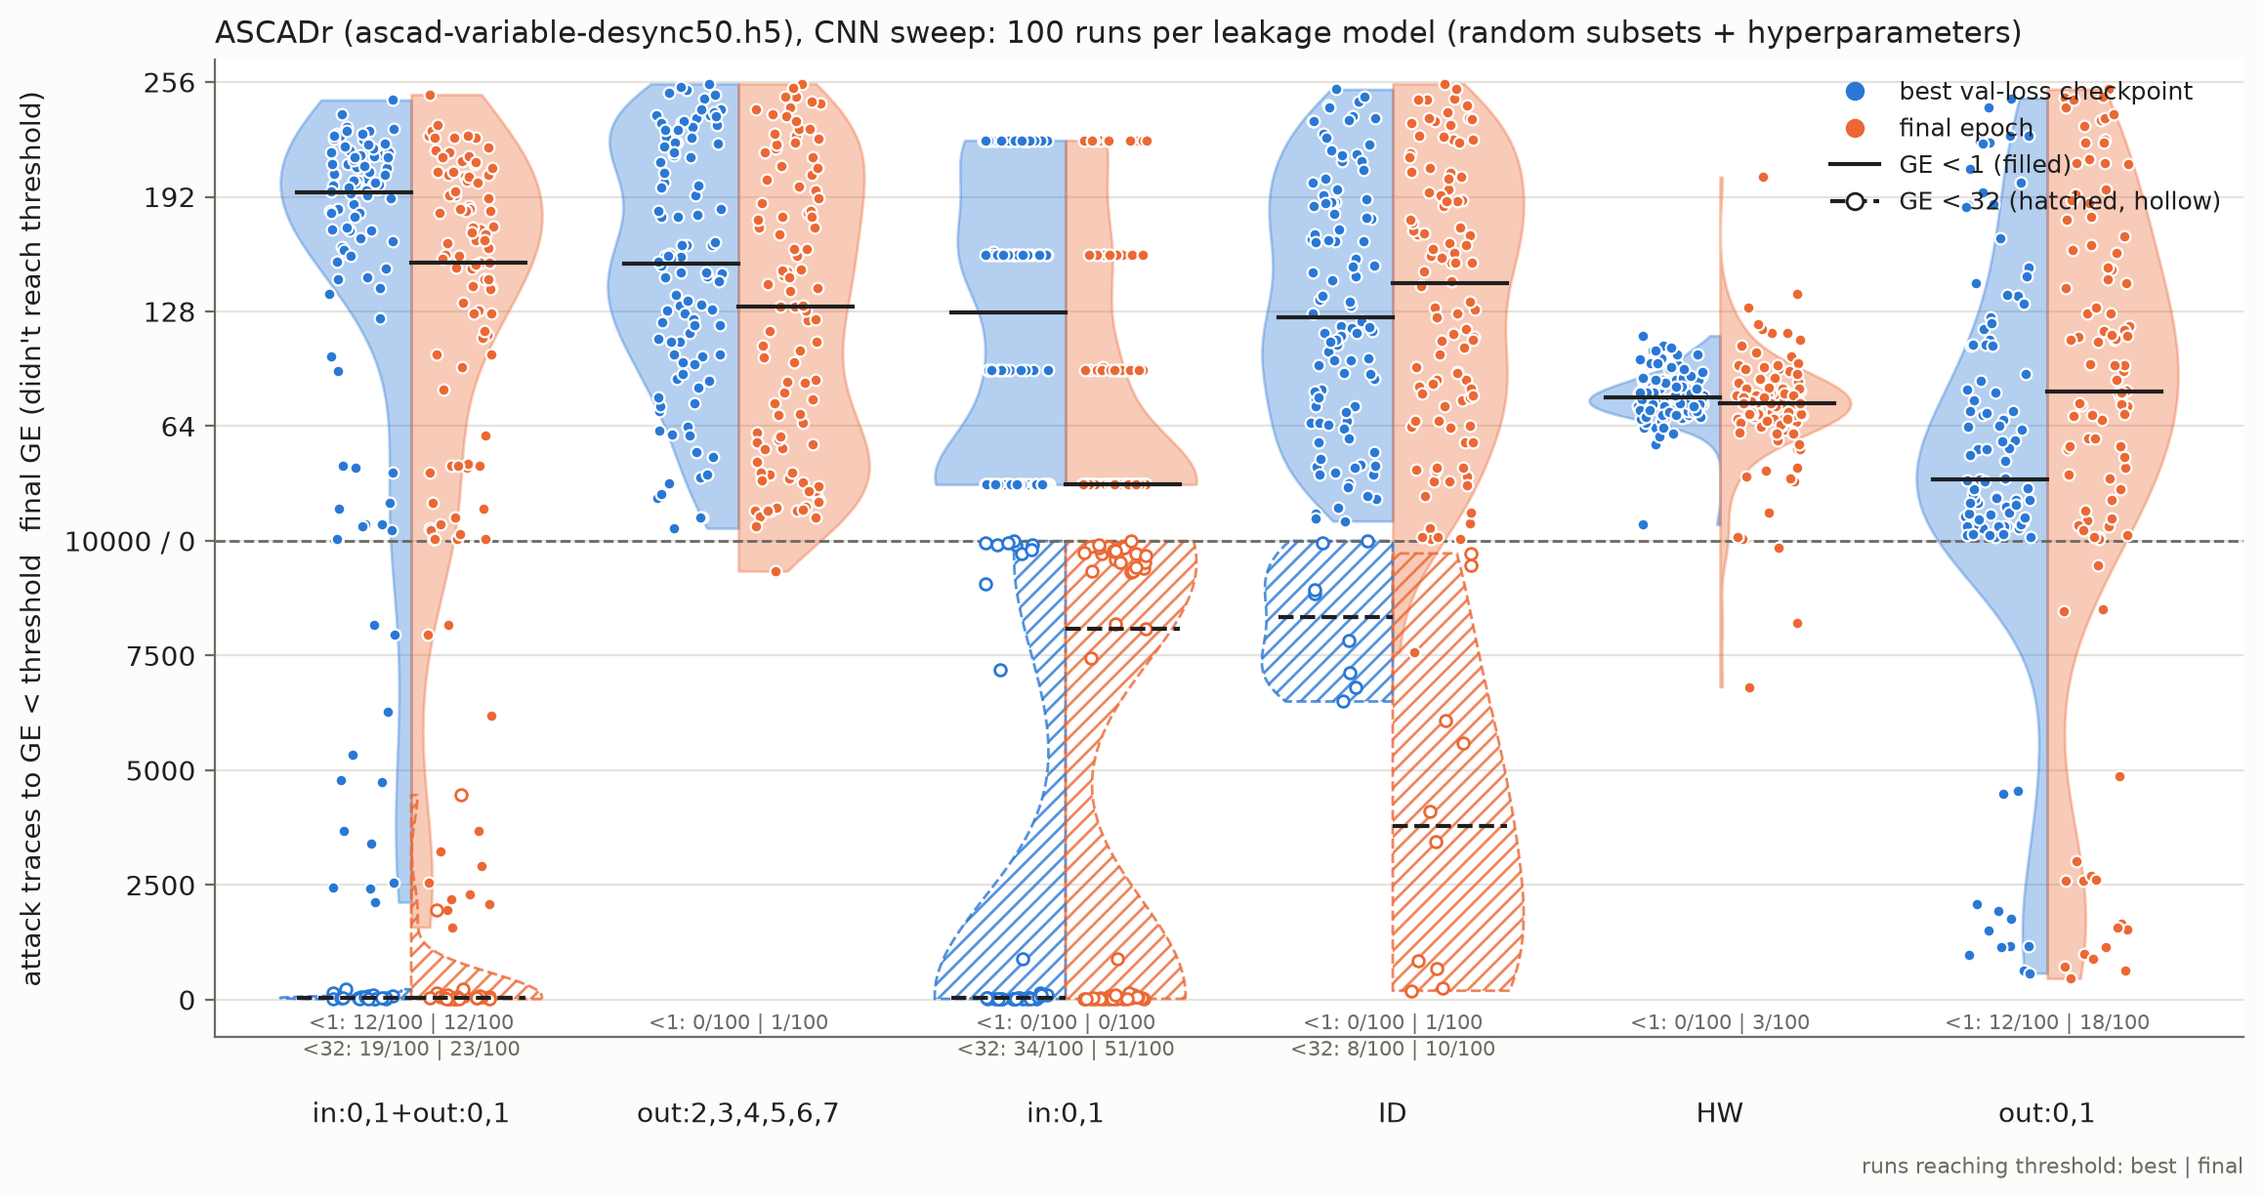
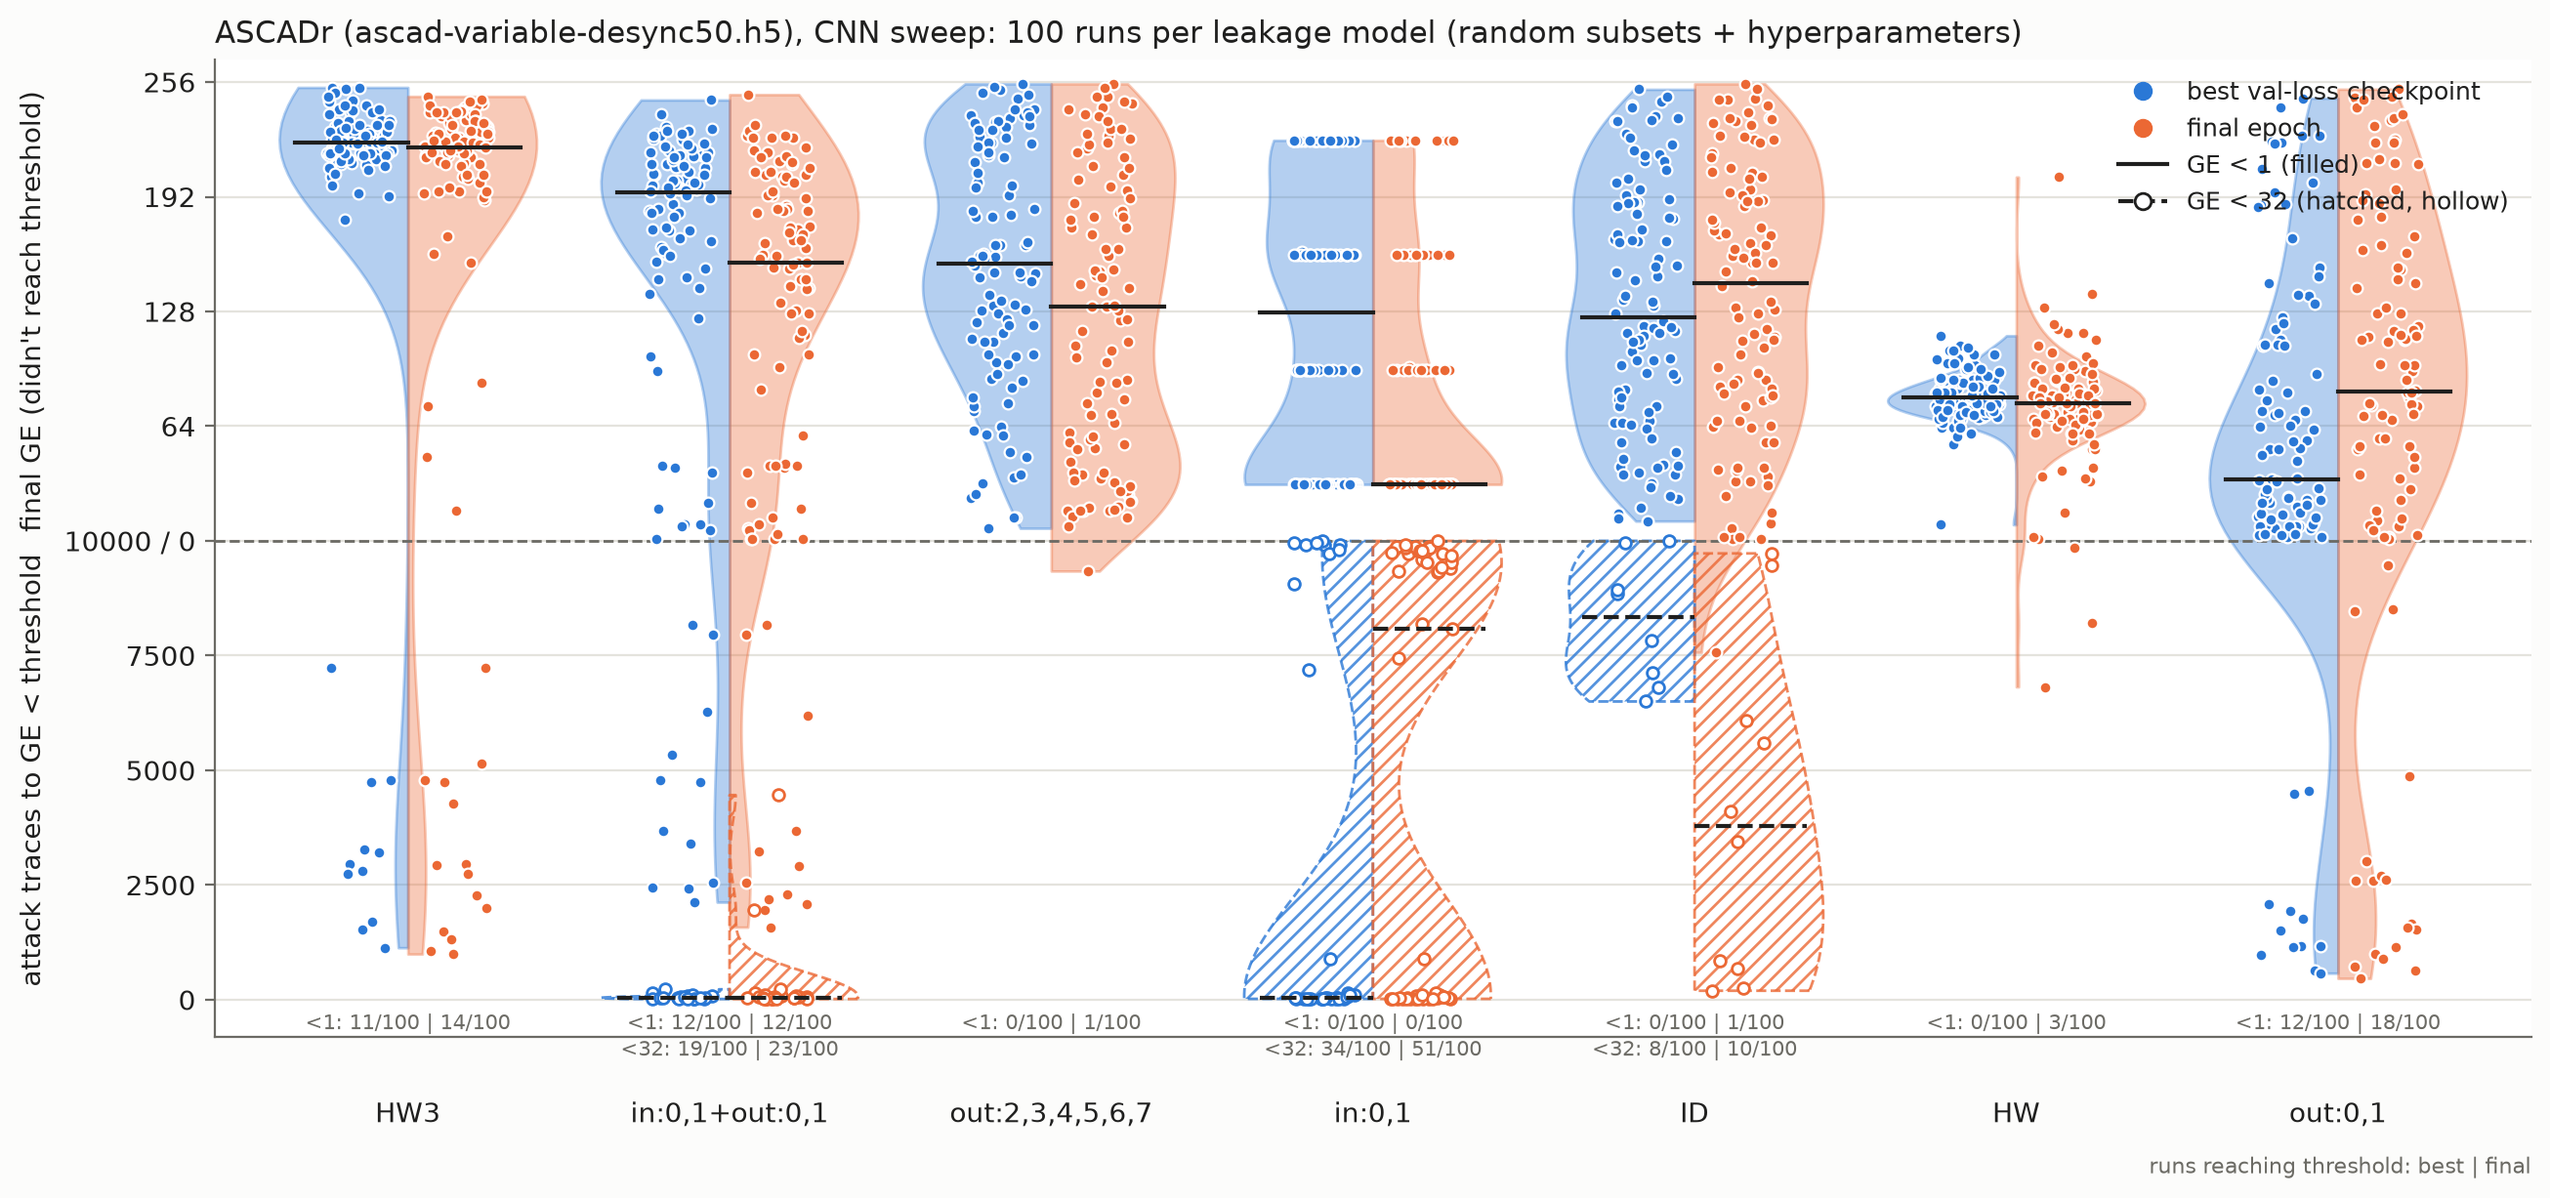
Add HW3 on ASCADr to the leakage-model writeup
HW3 was added to both ASCADr sweeps with --extend (same subsets and
configs). On synchronised MLPs it breaks the key in 81/100 runs (HW: 29),
second only to out:0,1; on desync50 CNNs it breaks the key in 14/100 but
ends confidently wrong in 82/100. Tables, paired comparisons, figures,
TL;DR and takeaways are updated, including the clue that synchronised MLPs
are also often confidently wrong early in training (best-val checkpoint)
before training out of it.

diff --git a/docs/leakage_model_sweeps.md b/docs/leakage_model_sweeps.md
@@ -1,13 +1,13 @@
 # Training on targeted leakage models: first results
 
-*Status: 2026-09-28. Three sweeps complete: MLPs on ASCADr (100 runs × 7 leakage models), CNNs on ASCADr desync50 (100 runs × 6 leakage models) and MLPs on eShard (100 runs × 3 leakage models). `HW3` runs on the two ASCADr sweeps are in progress.*
+*Status: 2026-09-28. Three sweeps complete: MLPs on ASCADr (100 runs × 8 leakage models), CNNs on ASCADr desync50 (100 runs × 7 leakage models) and MLPs on eShard (100 runs × 3 leakage models).*
 
 ## TL;DR
 
 - **Training on just the two S-box output LSBs (`out:0,1`) works better than any other label we tried, in both settings.** On ASCADr, 90/100 random MLPs break the key with it (median ~1.5k attack traces), versus 0/100 with ID labels at the same budget (20k profiling traces, 30 epochs). On desync50 with CNNs, everything is much harder, but `out:0,1` still breaks the key most often (18/100) and has by far the lowest median GE.
 - **It is the specific bits, not the number of classes.** `out:2,3` is also a 4-class label, trained on identical data and hyperparameters, and only 18/100 MLP runs break the key. Dropping the LSBs (`out:2,3,4,5,6,7`) leaves 4/100.
 - **The S-box input bits only ever get us to GE < 32, and adding them to `out:0,1` makes attacks worse.** That first part is expected: they depend on 2 key bits, so they can only find the right group of 64 keys. The surprise is the joint 16-class `out:0,1+in:0,1` label: it breaks the key less often than `out:0,1` alone (MLP 43 vs 90/100, CNN 12 vs 18/100) and is *slower* when both succeed (42 of 43 MLP runs). Our working hypothesis is that the much easier input-share feature starves learning of the output bits (see [Takeaways](#takeaways)).
-- **The same idea works on eShard with Hamming weights.** The paper found that eShard networks first learn to tell high from low Hamming weights. Training directly on that coarse 3-class label (`HW3`: low / med / high HW) breaks eShard in 79/100 MLP runs, against 30/100 for HW and 2/100 for ID, and wins 90/100 paired runs against HW.
+- **The same idea works on eShard with Hamming weights.** The paper found that eShard networks first learn to tell high from low Hamming weights. Training directly on that coarse 3-class label (`HW3`: low / med / high HW) breaks eShard in 79/100 MLP runs, against 30/100 for HW and 2/100 for ID, and wins 90/100 paired runs against HW. On ASCADr MLPs it is second only to `out:0,1` (81/100, against 29 for HW); on desync CNNs it either breaks the key or ends up confidently wrong.
 - **Many desync CNNs are confidently wrong:** their GE ends *above* 128, i.e. worse than a random guess. This affects 75/100 joint-label models and none of the HW models, and also half of the ID-trained eShard MLPs. It is not understood yet.
 - **Open:** the data-efficiency question needs a sweep over the number of profiling traces, and the broader question of whether different leakage models make networks learn *different internal representations* has not been tested yet (see [Next steps](#next-steps)).
 
@@ -47,7 +47,7 @@ Labels that only use S-box *input* bits depend on only some key bits, so several
 | | ASCADr MLP sweep | ASCADr desync50 CNN sweep | eShard MLP sweep |
 |---|---|---|---|
 | dataset | `ascad-variable.h5` (1400 samples) | `ascad-variable-desync50.h5` (1400 samples) | `eshard.h5` (1400 samples) |
-| leakage models | 7 (+ `HW3` in progress) | 6 (+ `HW3` in progress) | ID, HW, `HW3` |
+| leakage models | 8 | 7 | ID, HW, `HW3` |
 | runs | 100 | 100 | 100 |
 | training traces | 20k random subset of 180k | 20k random subset of 180k | 30k random subset of 80k |
 | validation | last 10k profiling traces | last 10k profiling traces | last 10k profiling traces |
@@ -68,6 +68,7 @@ All sweeps also sample the activation (ELU/ReLU/SELU), the Adam learning rate (1
 | leakage model | classes | runs | GE<1 final | traces to GE<1 (median) | GE<32 final | traces to GE<32 (median) | median final GE | GE<1 best ckpt | median best epoch |
 |---|---|---|---|---|---|---|---|---|---|
 | `out:0,1` | 4 | 100 | 90 | 1466 | 94 | 318 | 0.0 | 27 | 1 |
+| `HW3` | 3 | 100 | 81 | 1889 | 91 | 456 | 0.0 | 9 | 1 |
 | `out:0,1+in:0,1` | 16 | 100 | 43 | 2458 | 84 | 54 | 1.0 | 6 | 1 |
 | `HW` | 9 | 100 | 29 | 3102 | 68 | 1350 | 5.5 | 0 | 1 |
 | `out:2,3` | 4 | 100 | 18 | 2989 | 74 | 1509 | 6.0 | 1 | 0 |
@@ -81,6 +82,7 @@ Paired against `out:0,1` (same subset and hyperparameters, final epoch, compared
 
 | leakage model | runs | `out:0,1` better | other better |
 |---|---|---|---|
+| `HW3` | 100 | 74 | 26 |
 | `out:0,1+in:0,1` | 100 | 97 | 3 |
 | `HW` | 100 | 97 | 3 |
 | `out:2,3` | 100 | 96 | 4 |
@@ -103,6 +105,8 @@ Paired against `out:0,1` (same subset and hyperparameters, final epoch, compared
 **Necessity: mostly.** Excluding the two LSBs (`out:2,3,4,5,6,7`) leaves 4/100 successful runs, close to ID. ID contains the LSBs but fails completely at this budget (0/100 to GE < 1, 23/100 to GE < 32). So having the right information in the label isn't enough; with 20k traces, a 256-class target seems to be too hard for these small MLPs to learn the LSB structure from.
 
 **Input bits are the easiest thing to learn, but combining them hurts.** `in:0,1` reaches its floor in 99/100 runs with a median of 43 traces, faster than anything else. The joint `out:0,1+in:0,1` label benefits from this for GE < 32 (84/100, median 54 traces), but it breaks the full key less often than `out:0,1` alone (43 vs 90/100) and loses 97/100 paired runs. See [Takeaways](#takeaways) for why this is surprising and what might cause it.
+
+**Coarse Hamming weights work here too.** `HW3` (low / med / high HW, see the eShard section) breaks ASCADr in 81/100 runs, against 29 for full HW, and beats HW in 86/100 paired runs. It is second only to `out:0,1`, which beats it in 74/100 paired runs and is faster in 57 of the 78 runs where both break the key (median 1459 vs 1878 traces).
 
 **Selecting checkpoints by validation loss fails for MLPs.** The best-validation-loss epoch is 0–1 for almost every run and leakage model, so that checkpoint is essentially untrained (27/100 successful runs for `out:0,1`, against 90 at the final epoch). Validation loss is a poor proxy for attack performance here, which is why the main figure shows the final epoch. The split version below shows both checkpoints.
 
@@ -127,6 +131,7 @@ Paired against `out:0,1` (same subset and hyperparameters, final epoch, compared
 | `in:0,1` | 4 | 0* | – | 51 | 31.5 | 0* | 34 | 127.5 | 50 | 26 |
 | `out:2,3,4,5,6,7` | 64 | 1 | 9342 | 17 | 130.9 | 0 | 5 | 154.6 | 64 | 3 |
 | `out:0,1+in:0,1` | 16 | 12 | 2736 | 23 | 155.0 | **12** | 19 | 194.5 | 75 | 19 |
+| `HW3` | 3 | 14 | 2840 | 15 | 219.8 | 11 | 11 | 222.0 | 89 | 22 |
 
 \* `in:0,1` cannot reach GE < 1 (floor 31.5), and its GE moves in steps of 64 (31.5, 95.5, 159.5, …) because the 64 tied key guesses are always ranked as a block. All 100 runs per leakage model.
 
@@ -139,6 +144,7 @@ Paired against `out:0,1`, for each checkpoint:
 | `out:0,1+in:0,1` | 68 / 32 | 82 / 18 |
 | `out:2,3,4,5,6,7` | 68 / 32 | 78 / 22 |
 | `ID` | 63 / 37 | 69 / 31 |
+| `HW3` | 83 / 17 | 90 / 10 |
 
 ![GE curves of the best val-loss checkpoint, CNN sweep](figures/cnn_desync50_ge_curves_best.png)
 
@@ -152,10 +158,11 @@ Paired against `out:0,1`, for each checkpoint:
 ### What this says
 
 - **Desync50 at 20k traces is hard.** No label is reliable. The best is `out:0,1`, with 18/100 runs reaching GE < 1 at the final epoch (median ~2.1k attack traces) and 12/100 at the best checkpoint.
-- **`out:0,1` is still the strongest label.** It has the lowest median GE (34 at the best checkpoint; the next best, HW, is at 80) and the most runs below GE 32 (47/100). It wins 65–82 of 100 paired runs at the best checkpoint against every other label.
+- **`out:0,1` is still the strongest label.** It has the lowest median GE (34 at the best checkpoint; the next best, HW, is at 80) and the most runs below GE 32 (47/100). It wins 65–90 of 100 paired runs at the best checkpoint against every other label.
 - **The joint label is bimodal.** Its GE curves either drop below 32 within ~50 traces (19 runs at the best checkpoint, 12 of which go on to break the key), or climb steadily past 128. So it matches `out:0,1` on best-checkpoint GE < 1 (12/100 each) but has the worst median GE of all labels.
 - **HW is the most stable label but rarely breaks the key.** Its GE ends between ~40 and ~130 in almost every run and never above 128 at the best checkpoint. At the final epoch it beats `out:0,1` in 55/100 paired runs, mostly because `out:0,1`'s failures are further off (32/100 end above GE 128, against 3 for HW), not because HW succeeds (3/100 GE < 1).
 - **Checkpoint choice cuts both ways for CNNs.** Validation loss bottoms out mid-training for most labels (median best epoch 17–26). Training on to the final epoch gives `out:0,1` more successes (18 vs 12 runs to GE < 1) but also more badly-off runs (median GE 83 vs 34).
+- **`HW3` is the most extreme case of bimodality.** It breaks the key in 14/100 runs (second only to `out:0,1`'s 18), but 82/100 end confidently wrong at the final epoch, and its median final GE of 220 is the worst of all labels. Full HW, with the same information split more finely, is never above 128 at the best checkpoint.
 - **The input bits are not fast on desync.** `in:0,1` alone needs a median of ~8k traces to reach GE < 32 (51/100 runs), against 43 traces for synchronised MLPs.
 
 ## Results: MLPs on eShard
@@ -190,7 +197,7 @@ Paired against `HW3` (same subset and hyperparameters, final epoch): `HW3` is be
 
 ## Takeaways
 
-**1. `out:0,1` is the best label in both settings, and it is the specific bits that matter.** It wins most paired comparisons on synchronised MLPs (95–99/100) and desynchronised CNNs (65–82/100 at the best checkpoint). The `out:2,3` control on the MLPs rules out the class count as the explanation. On eShard, the analogous coarse label, `HW3` (high vs low Hamming weight, the feature the paper found eShard networks learn first), is similarly dominant: 79/100 runs against 30 for HW. The pattern across both datasets: **a label that asks only for the feature networks learn first beats the standard labels that contain it.**
+**1. `out:0,1` is the best label in both settings, and it is the specific bits that matter.** It wins most paired comparisons on synchronised MLPs (95–99/100, and 74/100 against `HW3`) and desynchronised CNNs (65–90/100 at the best checkpoint). The `out:2,3` control on the MLPs rules out the class count as the explanation. On eShard, the analogous coarse label, `HW3` (high vs low Hamming weight, the feature the paper found eShard networks learn first), is similarly dominant: 79/100 runs against 30 for HW. `HW3` also works on synchronised ASCADr (81/100 against 29 for HW), though not as well as `out:0,1` there. The pattern across both datasets: **a label that asks only for the feature networks learn first beats the standard labels that contain it.**
 
 **2. The input bits can only get the attack to GE < 32. That part is expected.** `in:0,1` is `(p⊕k) & 3`, which depends on only the 2 lowest key bits. However well a model learns it, the likelihood is identical for all 64 keys sharing those bits, so it only picks out the right group of 64. Ranking the correct key within that group needs the output bits, because only the S-box's nonlinearity makes the other 6 key bits matter.
 
@@ -205,7 +212,9 @@ The MLP GE curves fit this. The joint label's median GE drops fast early (28 aft
 
 **5. Checkpoint selection matters and neither choice is right.** Validation loss picks essentially untrained MLPs (epoch 0–1). For CNNs it picks a mid-training epoch that is more reliable but breaks the key less often than the final epoch. A GE-based criterion on a held-out attack set would be fairer to both.
 
-**6. Confidently wrong models are the main open puzzle.** At the best checkpoint, many desync CNNs rank the correct key *worse than random* (GE > 128): 75/100 for the joint label, 64 for `out:2,3,4,5,6,7`, 50 for `in:0,1`, 49 for ID, 21 for `out:0,1` and none for HW. On eShard, 52/100 ID-trained MLPs end above 128 at the final epoch, against 5 for `HW3`. A model without signal would stay around 128, so these models have learned something that systematically points *away* from the correct key on the attack set. That suggests a mismatch between profiling and attack traces that some labels are much more sensitive to. For the joint label, the rising runs are ones where the input bits were not learned: a model that had found the right group of 64 keys could not end much above GE ~63.
+**6. Confidently wrong models are the main open puzzle.** At the best checkpoint, many desync CNNs rank the correct key *worse than random* (GE > 128): 75/100 for the joint label, 64 for `out:2,3,4,5,6,7`, 50 for `in:0,1`, 49 for ID, 21 for `out:0,1` and none for HW. `HW3` is the most affected label on desync (89/100 at the best checkpoint). On eShard, 52/100 ID-trained MLPs end above 128 at the final epoch, against 5 for `HW3`.
+
+One clue: the state also appears early in training for synchronised MLPs that end up breaking the key. Their best-validation checkpoint (epoch 0–1) is above 128 in 43/100 runs for `out:0,1` and 78/100 for `HW3`, against 1 and 4 at the final epoch. So being confidently wrong looks like an early-training state that synchronised MLPs train out of, and that desync CNNs often don't. A model without signal would stay around 128, so these models have learned something that systematically points *away* from the correct key on the attack set. That suggests a mismatch between profiling and attack traces that some labels are much more sensitive to. For the joint label, the rising runs are ones where the input bits were not learned: a model that had found the right group of 64 keys could not end much above GE ~63.
 
 ## Caveats
 
@@ -225,7 +234,7 @@ The MLP GE curves fit this. The joint label's median GE drops fast early (28 aft
    - *Longer training* for a few configs, to see whether the gap is about convergence speed or capacity.
 2. **Understand the confidently wrong CNNs:** check whether the misranking comes from the input-bit or output-bit part of the prediction, and whether it is specific to the fixed-key attack set.
 3. **Data efficiency:** sweep the number of training traces (e.g. 5k, 10k, 20k, 50k, 100k) for ID, HW and `out:0,1`, to test whether the gap closes with more data or targeted labels are genuinely more sample-efficient.
-4. **`HW3` on ASCADr** (running): does the coarse Hamming-weight label help there too, given that HW did better than expected? Also add `out:2,3` (class-count control) to the CNN sweep via `sweep.py --extend`.
+4. **Complete the CNN sweep's label set:** add `out:2,3` (class-count control) via `sweep.py --extend`.
 5. **CHES CTF:** the paper found networks there learn high vs low HW first and HW parity (even vs odd) later, so `HW3` and a HW-parity label are the natural candidates. The loader is implemented, but the downloaded CHES CTF file is a longer 15k-sample window, so it needs adjusting first.
 6. **Representations (the main longer-term question):** compare what networks trained on different leakage models learn internally. For example, do HW-trained and `out:0,1`-trained models embed the mask and masked-value shares differently? The starvation hypothesis makes a concrete prediction here: joint-label networks should show weaker or later-forming output-share features than `out:0,1` networks on the same run. We would reuse the paper's tools (probing hidden layers for share bits, perceived information, activation patching) on paired runs from these sweeps.
 
@@ -242,6 +251,10 @@ uv run scripts/sweep.py --dataset_path ascad-variable-desync50.h5 --model cnn --
 # eShard MLP sweep
 uv run scripts/sweep.py --dataset eshard --dataset_path eshard.h5 --n_train 30000 --n_attack 5000 \
     --n_runs 100 --epochs 30 --leakage_models ID HW HW3 --quiet
+
+# HW3 added to both ASCADr sweeps afterwards (same subsets and configs)
+uv run scripts/sweep.py --extend results/sweep_ascadr_27_09_2026_19_17_52 --leakage_models HW3 --quiet
+uv run scripts/sweep.py --extend results/sweep_ascadr_28_09_2026_08_50_36 --leakage_models HW3 --gpu_mem_budget 12 --quiet
 
 # Figures and tables in this doc
 uv run scripts/plot_sweep.py <sweep_dir> [--final-only] --out docs/figures/<name>
